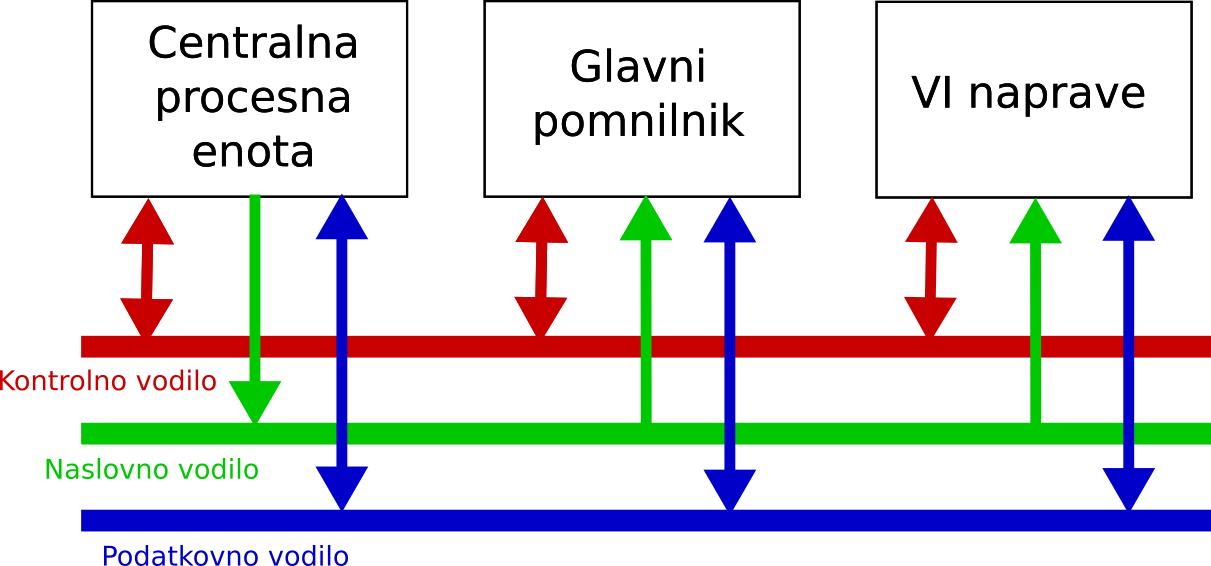
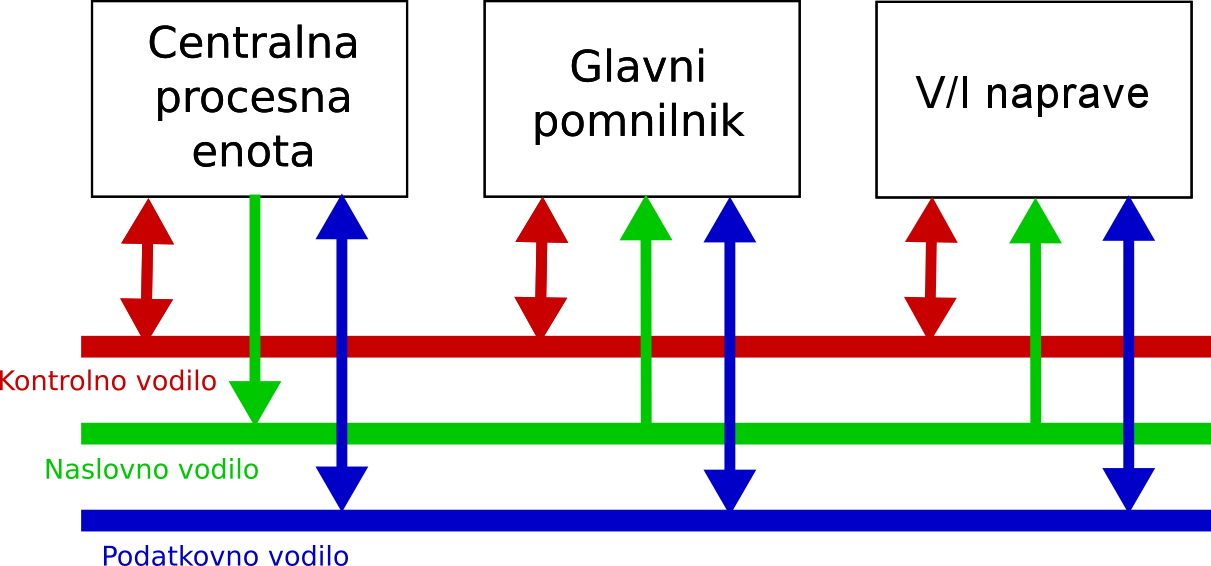
Updated unit 1304

Changed region(s): [[0.7333, 0.1201, 0.9472, 0.2102]]

diff --git a/book/1304/index2.html b/book/1304/index2.html
@@ -176,7 +176,7 @@
 						<h4 class="modal-title">Komentar</h4>
 					</div>
 					<div class="modal-body">
-						<p align="justify">Včasih programer želi prekiniti zaporedno izvajanje ukazov (na primer pri uporabi zank ali pogojnih stavkov), a kako to zapovedati CPE v poglavju o ukazih.</p>
+						<p align="justify">Včasih programer želi prekiniti zaporedno izvajanje ukazov (na primer pri uporabi zank ali pogojnih stavkov). Kako to zapovedati CPE, izvemo v poglavju o ukazih.</p>
 					</div>
 					<div class="modal-footer">
 						<button type="button" class="btn btn-default" data-dismiss="modal">Zapri</button>
@@ -197,7 +197,7 @@
 						<h4 class="modal-title">Rešitev</h4>
 					</div>
 					<div class="modal-body">
-						<p align="justify">Vzporedno izvajanje programa oziroma ukazov lahko dosežemo na dva osnovna načina. Prvi je, da hkrati uporabimo več CPE (večprocesorski ali večjedrni sistem), in drugi s cevovodnim izvajanjem ukazov. Slednje se dogaja danes v vsakem procesorju. Pri opisu izvajanja ukaza smo opredelili kot primer pet korakov. Če ponazorimo cevovodno izvajanje, slednje pomeni, da se najprej prične izvajati prvi korak prvega ukaza. Nato sledi izvajanje drugega koraka prvega ukaza, vendar se <b>hkrati </b>prične izvajati že tudi prvi korak naslednjega ukaza in tako naprej.</p>
+						<p align="justify">Vzporedno izvajanje programa oziroma ukazov lahko dosežemo na dva osnovna načina. Prvi je, da hkrati uporabimo več CPE (večprocesorski ali večjedrni sistem), in drugi s cevovodnim izvajanjem ukazov. Slednje se izvaja danes v vsakem procesorju. Pri opisu izvajanja ukaza smo kot primer opredelili pet korakov. Če ponazorimo cevovodno izvajanje, to pomeni, da se najprej prične izvajati prvi korak prvega ukaza. Nato sledi izvajanje drugega koraka prvega ukaza, vendar se <b>hkrati</b> prične izvajati že tudi prvi korak naslednjega ukaza in tako naprej.</p>
 					</div>
 					<div class="modal-footer">
 						<button type="button" class="btn btn-default" data-dismiss="modal">Zapri</button>
@@ -215,17 +215,17 @@
 <!-- Left column start -->
 <h1>Von Neumannova arhitektura</h1>
  
-<p align="justify">Poleg tega, da imamo pri von Neumannovi arhitekturi program v pomnilniku, zanjo velja še preprosto shema soodvisnosti gradnikov:</p>
+<p align="justify">Poleg tega, da imamo pri von Neumannovi arhitekturi program v pomnilniku, zanjo velja še preprosta shema soodvisnosti gradnikov:</p>
 
 <p align="center"><img src="img/von-neumann-640.png" width="75%" class="img-responsive" /></p>
 
-<p align="justify">Sestoji iz 3 sklopov: <b>centralne procesne enote</b> (CPE), <b>pomnilnika</b> ter <b>vhodno-izhodnih naprav</b>. Osrednjo vlogo ima CPE, ki izvaja program tako, da prevzema ukaze enega za drugim iz pomnilnika ter jih izvršuje. Ukaz praviloma opravi neko operacijo nad podatki, ki jim rečemo operandi. Operandi so lahko prav tako shranjeni v pomnilniku ali pa so prebrani iz vhodno-izhodnih naprav. Vhodno-izhodne naprave omogočajo komunikacijo CPE z okolico. Tipične vhodno-izhodne naprave so tipkovnica, zaslon, omrežna kartica, grafična kartica idr.</p>
+<p align="justify">Sestavljena je iz treh sklopov: <b>centralne procesne enote</b> (CPE), <b>pomnilnika</b> ter <b>vhodno-izhodnih naprav</b>. Osrednjo vlogo ima CPE, ki izvaja program tako, da prevzema ukaze enega za drugim iz pomnilnika ter jih izvršuje. Ukaz praviloma opravi neko operacijo na podatkih, ki jih imenujemo operandi. Operandi so lahko prav tako shranjeni v pomnilniku ali pa so prebrani iz vhodno-izhodnih naprav. Vhodno-izhodne naprave omogočajo komunikacijo CPE z okolico. Tipične vhodno-izhodne naprave so tipkovnica, zaslon, omrežna kartica, grafična kartica idr.</p>
 
 <p align="justify">CPE vsebuje:
 <ul align="justify">
-	<li><b>Registre</b>, v katerih lahko hrani operande s katerimi računa.</li>
-	<li><b>Aritmetično-logično enoto</b>, ki zna izvajati zahtevane aritmetične in logične operacije. </li>
-	<li><b>Kontrolno enoto</b>, ki nadzira delovanje CPE.</li>
+	<li><b>registre</b>, v katerih lahko hrani operande, s katerimi računa;</li>
+	<li><b>aritmetično-logično enoto</b>, ki lahko izvaja zahtevane aritmetične in logične operacije;</li>
+	<li><b>kontrolno enoto</b>, ki nadzira delovanje CPE.</li>
 </ul>
 </p>
 <!-- Left column end -->
@@ -237,24 +237,24 @@
 <p align="justify">Kontrolna enota najprej prebere ukaz iz glavnega pomnilnika. Ukaz se v glavnem pomnilniku nahaja na naslovu, ki ga hrani <b>programski števec</b> (<i>ang. program counter, PC</i>). Programski števec je eden od registrov v centralni procesni enoti, ki ima zelo pomembno vlogo, da hrani naslov naslednjega ukaza, ki se naj izvede. Vsakič ko se prevzame ukaz iz pomnilnika, se vrednost programskega števca samodejno poveča za 1, kar običajno zapišemo kot: <b><i>PC = PC + 1</i></b>.</p>
 
 <div class="alert alert-danger" role="alert">
-<p align="justify">To pravilo je značilno za von Neumannovo arhitekturo in zagotavlja, da se ukazi jemljejo iz pomnilnika zaporedoma. Poleg tega pravilo zagotavlja zaporedno izvajanje ukazov, kot jih je programer zapisal v programu.</p>
+<p align="justify">To pravilo je značilno za von Neumannovo arhitekturo in zagotavlja, da se ukazi pridobivajo iz pomnilnika zaporedoma. Poleg tega pravilo zagotavlja zaporedno izvajanje ukazov, kot jih je programer zapisal v programu.</p>
 <p>
 <button type="button" class="btn btn-danger" data-toggle="modal" data-target="#comment1"><span class="fa fa-check"></span> Komentar</button>
 </p>
 </div>
 
-<p align="justify">Izvajanje ukaza se v splošnem dogaja v več zaporednih korakih:
+<p align="justify">Ukaz se na splošno izvaja v več zaporednih korakih:
 <ol align="justify">
-	<li>Ko je ukaz dostavljen iz pomnilnika do kontrolne enote, ga le-ta začne dekodirati.</li>
+	<li>Ko je ukaz dostavljen iz pomnilnika do kontrolne enote, ga ta začne dekodirati.</li>
 	<li>Dekodiranje ukaza je postopek, s katerim se iz ukaza ugotavlja, kakšna operacija naj se izvede v aritmetično-logični enoti in kje so operandi, potrebni za izvajanje ukaza.</li>
-	<li>Operandi so najpogosteje v registrih in, če jih tam ni, jih dobimo iz pomnilnika ali vhodno-izhodne enote.</li>
-	<li>Pripravljeni operandi se prenesejo na vhod aritmetično-logične enote, ki nad njimi izvede zahtevano operacijo.</li>
-	<li>V zadnjem koraku se rezultat operacije shrani bodisi v notranje registre, pomnilnik ali na vhodno-izhodno enoto.</li>
+	<li>Operandi so najpogosteje v registrih. Če jih tam ni, jih dobimo iz pomnilnika ali vhodno-izhodne enote.</li>
+	<li>Pripravljeni operandi se prenesejo na vhod aritmetično-logične enote, ki na njih izvede zahtevano operacijo.</li>
+	<li>V zadnjem koraku se rezultat operacije shrani bodisi v notranje registre, pomnilnik ali vhodno-izhodno enoto.</li>
 </ol>
 </p>
 
 <div class="alert alert-info" role="alert">
-<p align="justify">Dandanes pohitrimo izvajanje naših programov na računalnikih s tem, da jih izvajamo vzporedno. Sedaj, ko poznaš kako izgleda von Neumannova arhitektura in ko veš, kako izgleda CPE, ali si znaš zamisliti, kako doseči povzporejanje izvajanja programov?</p>
+<p align="justify">Izvajanje računalniških programov v današnjem času pohitrimo tako, da jih izvajamo vzporedno. Zdaj ko si seznanjen(-a) s von Neumannovo arhitekturo in zgradbo CPE, ali si znaš zamisliti, kako doseči povzporejanje izvajanja programov?</p>
 <p>
 <button type="button" class="btn btn-info" data-toggle="modal" data-target="#solution1"><span class="fa fa-check"></span> Rešitev</button>
 </p>

diff --git a/book/1304/index1.html b/book/1304/index1.html
@@ -176,7 +176,7 @@
 						<h4 class="modal-title">Rešitev</h4>
 					</div>
 					<div class="modal-body">
-						<p align="justify">Na ta način postane program samo posebna oblika podatkov - z drugimi besedami, program so podatki, kot katerikoli drugi podatki in jih lahko, kot katerekoli druge podatke (recimo, besedilo, ki ga oblikujemo v pisarniškem programu), naložimo v pomnilnik. Edina razlika je v tem, da te podatke lahko »izvajamo«.</p>
+						<p align="justify">Na ta način postane program samo posebna oblika podatkov - z drugimi besedami, program so podatki kot katerikoli drugi podatki, ki jih lahko enako kot katerekoli druge podatke (recimo besedilo, ki ga oblikujemo v pisarniškem programu) naložimo v pomnilnik. Edina razlika je ta, da te podatke lahko »izvajamo«.</p>
 					</div>
 					<div class="modal-footer">
 						<button type="button" class="btn btn-default" data-dismiss="modal">Zapri</button>
@@ -194,27 +194,27 @@
 <!-- Left column start -->
 <h1>ENIAC</h1>
  
-<p align="justify">Prvi omembe vreden elektronski računalnik so začeli izdelovati leta 1943 na University of Pennsylvania. Nadeli so mu ime Electronic Numerical  Integrator and Calculator – ENIAC. Denar za njegovo izdelavo je zagotovila ameriška vojska, saj so ga potrebovali za računanje in izdelavo balističnih tabel za topništvo. Programiranje ENIACA-a je potekalo ročno – vklapljali so ali izklapljali posamezna stikala in prevezovali vodnike, kot je razvidno na spodnji sliki. Si lahko zamislite, kako zamudno je bilo to opravilo?</p>
+<p align="justify">Prvi omembe vreden elektronski računalnik so začeli izdelovati leta 1943 na Univerzi v Pensilvaniji. Nadeli so mu ime Electronic Numerical  Integrator and Calculator – ENIAC. Denar za njegovo izdelavo je zagotovila ameriška vojska, saj so ga potrebovali za računanje in izdelavo balističnih tabel za topništvo. Programiranje ENIAC-a je potekalo ročno – vklapljali so ali izklapljali posamezna stikala in prevezovali vodnike, kot je razvidno na spodnji sliki. Si lahko zamislite, kako zamudno je bilo to opravilo?</p>
 
 <p align="center"><img src="img/ENIAC-programming.jpg" class="img-responsive" />
 <i>Računalnik ENIAC in njegove programerke.</i></p>
 
-<p align="justify">To je bil računalnik, ki ni imel shranjenega programa oz. navodil za računanje. Ko se je pojavila potreba po drugačnem programu ali izračunu, so morali ponovno izvesti nerodno in počasno pretikanje stikal in žic. In medtem ko so ga tako programirali, je računalnik stal in ni reševal nobenih drugih problemov.</p>
+<p align="justify">To je bil računalnik, ki ni imel shranjenega programa oz. navodil za računanje. Ko se je pojavila potreba po drugačnem programu ali izračunu, so morali ponovno izvesti nerodno in počasno pretikanje stikal ter žic. Poleg tega je računalnik, medtem ko so ga tako programirali, miroval in ni reševal nobenih drugih problemov.</p>
 <!-- Left column end -->
 					</div>
 					<div class="col-md-6">
 						<br />
 <!-- Right column start -->
-<p align="justify">Vodilna razvijalca pri ENIAC-u, John Mauchly in J. Presper Eckert, sta prišla na idejo, da bi računalnik imel program, tj. ukaze, ki so navodilo za njegovo delovanje, shranjene v elektronskem spominu. Ker sta bila po pogodbi z ameriško vojsko zavezana k molčečnosti, te ideje nista smela javno objaviti, temveč sta jo zaupala članu razvojne ekipe, Johnu von Neumannu, ki je v skupini delal kot svetovalec. John von Neumann je idejo nato objavil leta 1945 v predlogu za nov računalnik EDVAC – Electronic Discrete Variable Computer.  Še danes ni jasno, ali si von Neuman zasluži, da se zasluge za to idejo pripisujejo le njemu, a kljub temu so bili po njem poimenovani računalniki s takšno zasnovo.</p>
+<p align="justify">Vodilna razvijalca pri ENIAC-u, John Mauchly in J. Presper Eckert, sta si zamislila, da bi računalnik imel program, tj. ukaze, ki so navodilo za njegovo delovanje, shranjene v elektronskem spominu. Ker sta bila po pogodbi z ameriško vojsko zavezana k molčečnosti, te zamisli nista smela javno objaviti, temveč sta jo zaupala članu razvojne ekipe, Johnu von Neumannu, ki je v skupini delal kot svetovalec. John von Neumann je zamisel nato objavil leta 1945 v predlogu za nov računalnik EDVAC – Electronic Discrete Variable Computer.  Še danes ni jasno, ali je za to zamisel upravičeno zaslužen le von Neumann, po katerem so bili poimenovani računalniki s tovrstno zasnovo.</p>
 
 <div class="alert alert-success" role="alert">
-<p align="justify">Računalnikom s shranjenim programom v pomnilniku pravimo von Neumannovi računalniki ali računalniki s von Neumannovo arhitekturo.</p>
+<p align="justify">Računalniki s shranjenim programom v pomnilniku se imenujejo von Neumannovi računalniki ali računalniki s von Neumannovo arhitekturo.</p>
 </div>
 
-<p align="justify">Danes so to praktično vsi računalniki, ki jih poznamo in nam je to, da ima računalnik program shranjen v pomnilniku, nekaj povsem samoumevnega. A kot vidimo, sredi 40. let prejšnjega stoletja temu ni bilo tako.</p>
+<p align="justify">Danes so to praktično vsi računalniki, ki jih poznamo, in nam je to, da ima računalnik program shranjen v pomnilniku, nekaj povsem samoumevnega. A kot vidimo, sredi 40. let prejšnjega stoletja to ni bilo tako.</p>
 
 <div class="alert alert-info" role="alert">
-<p align="justify">Ena od značilnosti von Neumannove arhitekture je, da je program shranjen v pomnilniku. Zakaj meniš, da je to dobro?</p>
+<p align="justify">Ena od značilnosti von Neumannove arhitekture je, da je program shranjen v pomnilniku. Zakaj bi to lahko bilo dobro?</p>
 <p>
 <button type="button" class="btn btn-info" data-toggle="modal" data-target="#solution1"><span class="fa fa-check"></span> Rešitev</button>
 </p>

diff --git a/book/1304/index3.html b/book/1304/index3.html
@@ -176,8 +176,8 @@
 						<h4 class="modal-title">Rešitev</h4>
 					</div>
 					<div class="modal-body">
-						<p align="justify">Vodili PCI in PCI Express sta namenjeni priklopu različnih vhodno/izhodnih enot kot so grafična kartica in podobno. Tudi počasnejše vodilo USB je namenjeno priklopu vhodno/izhodnih naprav. Poleg tega ima naša matična plošča še starejša vodila RS232, PS/2 in Centronics (IEEE 1284), ki jih danes zelo redko ali sploh ne srečamo več na sodobnih računalnikih. Poleg tega ima plošča za priklop diskov vodili ATA in SATA ter podatkovno vodilo za prenos podatkov med CPE in pomnilnikom.</p>
-						<p align="justify">Naj ti bodo imena vodil bolj za zanimivost in za to, da morda po spletu poiščeš njihov podrobnejši opis.</p>
+						<p align="justify">Vodili PCI in PCI Express sta namenjeni priklopu različnih vhodno-izhodnih enot, kot so grafična kartica in podobno. Tudi počasnejše vodilo USB je namenjeno priklopu vhodno-izhodnih naprav. Poleg tega ima naša matična plošča starejša vodila RS232, PS/2 in Centronics (IEEE 1284), ki jih danes zelo redko ali sploh ne uporabljamo več v sodobnih računalnikih. Poleg tega ima plošča za priklop diskov vodili ATA in SATA ter podatkovno vodilo za prenos podatkov med CPE in pomnilnikom.</p>
+						<p align="justify">Imena vodil obravnavaj bolj kot zanimivost, njihov podrobnejši opis pa lahko poiščeš na spletu.</p>
 					</div>
 					<div class="modal-footer">
 						<button type="button" class="btn btn-default" data-dismiss="modal">Zapri</button>
@@ -208,14 +208,14 @@
  
 <p align="justify">Matična plošča osebnega računalnika je kompleksno elektronsko vezje, katerega glavna naloga je, da CPE, pomnilnik in vhodno-izhodne naprave, tj. vse tri osnovne gradnike von Neumannove arhitekture, poveže v delujočo celoto.</p>
 
-<p align="justify">Matična plošča vsebuje podnožje, v katerega vstavimo centralno procesno enoto (npr. Intelov ali AMD-jev procesor). Zraven je običajno več rež, kamor vstavimo pomnilniške module DIMM (<i>ang. dual in-line memory module</i>), ki služijo kot glavni pomnilnik. Pomnilnik mora biti fizično čim bližje centralni procesni enoti, zato da so prenosne poti, po katerih se prenašajo ukazi in operandi, čim krajše. Posledično bo čas prenosa med centralno procesno enoto in pomnilnikom kratek. Priključki PCI (<i>ang. Peripheral Component Interconnect</i>) in PCIe (<i>ang. PCI Express</i>) so namenjeni priključevanju hitrih vhodno-izhodnih naprav, kot so npr. grafične kartice. Med temi hitrimi vhodno-izhodnimi napravami ter med centralno procesno enoto in glavnim pomnilnikom se prenašajo velike količine podatkov. Na matični plošči je še množica priključkov za počasnejše zunanje naprave, kot so npr. tipkovnice, miške, USB ključki, tiskalniki idr.</p>
+<p align="justify">Matična plošča vsebuje podnožje, v katerega vstavimo centralno procesno enoto (npr. Intelov ali AMD-jev procesor). Zraven je običajno več rež, kamor vstavimo pomnilniške module DIMM (<i>ang. dual in-line memory module</i>), ki se uporabljajo kot glavni pomnilnik. Pomnilnik mora biti fizično čim bližje centralni procesni enoti, da so prenosne poti, po katerih se prenašajo ukazi in operandi, čim krajše. Posledično bo čas prenosa med centralno procesno enoto in pomnilnikom kratek. Priključki PCI (<i>ang. Peripheral Component Interconnect</i>) in PCIe (<i>ang. PCI Express</i>) so namenjeni priključevanju hitrih vhodno-izhodnih naprav, kot so npr. grafične kartice. Med temi hitrimi vhodno-izhodnimi napravami ter med centralno procesno enoto in glavnim pomnilnikom se prenašajo velike količine podatkov. Na matični plošči je še množica priključkov za počasnejše zunanje naprave, kot so npr. tipkovnice, miške, USB-ključki, tiskalniki idr.</p>
 
 <div class="alert alert-info" role="alert">
 <p align="justify">Na naslednji strani si oglej primer matične plošče in razišči vse označene priključke!</p>
 </div>
 
 <div class="alert alert-info" role="alert">
-<p align="justify">Katera vodila vsebuje matična plošča, ki jo predstavljamo, in čemu služijo?</p>
+<p align="justify">Katera vodila vsebuje matična plošča, ki jo predstavljamo, in za kaj se uporabljajo?</p>
 <p>
 <button type="button" class="btn btn-info" data-toggle="modal" data-target="#solution1"><span class="fa fa-check"></span> Rešitev</button>
 </p>

diff --git a/book/1304/index.html b/book/1304/index.html
@@ -176,7 +176,7 @@
 						<h4 class="modal-title">Namig</h4>
 					</div>
 					<div class="modal-body">
-						<p align="justify">Ne, na sliki je podnožje centralne procesne enote osebnega računalnika. Tu se, kot ste gotovo že zaslutili, ne bomo ukvarjali z arhitekturo stavb, temveč arhitekturo računalniških sistemov.</p>
+						<p align="justify">Na sliki je podnožje centralne procesne enote osebnega računalnika. Tu se, kot ste gotovo že zaslutili, ne bomo ukvarjali z arhitekturo stavb, temveč arhitekturo računalniških sistemov.</p>
 					</div>
 					<div class="modal-footer">
 						<button type="button" class="btn btn-default" data-dismiss="modal">Zapri</button>
@@ -194,9 +194,9 @@
 <!-- Left column start -->
 <h1>Arhitektura računalnika</h1>
  
-<p align="justify">S pojmom računalniška arhitektura označujemo področje, ki se ukvarja z zgradbo računalnika, lastnostmi njegovih gradnikov, povezavami med le-temi in z zasnovo računalnikovih strojnih ukazov. Področje arhitekture računalnik obravnava ne glede na njegovo strojno izvedbo.</p>
+<p align="justify">S pojmom <i>računalniška arhitektura</i> označujemo področje, ki se ukvarja z zgradbo računalnika, lastnostmi njegovih gradnikov in povezavami med njimi ter z zasnovo računalnikovih strojnih ukazov. Področje arhitekture računalnik obravnava ne glede na svojo strojno izvedbo.</p>
 
-<p align="justify">V tem poglavju bomo najprej pokukali v čas ENIAC-a, enega prvih elektronskih računalnikov, ki ga je bilo potrebno programirati s pretikanjem žic in stikal. Ideje o izboljšavah, ki so se pojavile med njegovim razvojem in jih danes imenujemo von Neumannova arhitektura, so imele daljnosežen vpliv na razvoj računalnikov in v svoji osnovi ostajajo nespremenjene vse do današnjih dni. Ogledali si bomo še matično ploščo osebnega računalnika, ki služi kot povezovalni člen med njegovimi osnovnimi gradniki.</p>
+<p align="justify">V tem poglavju bomo najprej pokukali v čas ENIAC-a, enega od prvih elektronskih računalnikov, ki ga je bilo treba programirati s pretikanjem žic in stikal. Zamisli o izboljšavah, ki so se pojavile med njegovim razvojem in jih danes imenujemo von Neumannova arhitektura, so imele daljnosežen vpliv na razvoj računalnikov in v svoji osnovi ostajajo nespremenjene vse do današnjih dni. Ogledali si bomo še matično ploščo osebnega računalnika, ki se uporablja kot povezovalni člen med njegovimi osnovnimi gradniki.</p>
 
 <br />
 <div class="panel panel-primary">
@@ -218,7 +218,7 @@
 						<br />
 <!-- Right column start -->
 <p align="center"><img src="img/p4_cpu_bottom_macro_desktop_1920x1200_wallpaper-289274.jpg" class="img-responsive" />
-<i>Je na sliki morda majhno naselje obdano z obrambnim zidom?</i></p>
+<i>Je na sliki morda majhno naselje, obdano z obrambnim zidom?</i></p>
 
 <center><button class="btn btn-default" data-toggle="modal" data-target="#hint">Namig</button></center>
 <!-- Right column end -->

diff --git a/book/1304/index7.html b/book/1304/index7.html
@@ -240,7 +240,7 @@
 <p>
 	<span class="label label-primary"><b>1</b></span>
 </p>
-<p align="justify">Kaj je razlikovalo računalnik EDVAC od računalnika ENIAC? Izberi pravilni odgovor.</p>
+<p align="justify">V čem se je računalnik EDVAC razlikoval od računalnika ENIAC? Izberi pravilni odgovor.</p>
 <p>
 <div class="input-row">
 	<input type="radio" name="option57_13" id="i57_16" data-toggle="modal" data-target="#false" />
@@ -252,7 +252,7 @@
 </div>
 <div class="input-row">
 	<input type="radio" name="option57_13" id="i57_625" data-toggle="modal" data-target="#false" />
-	<label class="checkbox-label" id="taans57_625">Med EDVAC-om in ENIAC-om ni bistvene razlike. Oba sta nastala v času med in malo po drugi svetovni vojni.</label>
+	<label class="checkbox-label" id="taans57_625">Med EDVAC-om in ENIAC-om ni bistvene razlike. Oba sta nastala v času med drugo svetovno vojno in malo po njej.</label>
 </div>
 </p>
 </div>
@@ -304,11 +304,11 @@
 </div>
 <div class="input-row">
 	<input type="radio" name="option63_13" id="i63_638" data-toggle="modal" data-target="#false" />
-	<label class="checkbox-label" id="taans63_638">Da računalnik zna šteti koliko ukazov je izvedela centralna procesna enota.</label>
+	<label class="checkbox-label" id="taans63_638">Da lahko računalnik prešteje, koliko ukazov je izvedela centralna procesna enota.</label>
 </div>
 <div class="input-row">
 	<input type="radio" name="option63_13" id="i63_635" data-toggle="modal" data-target="#true" />
-	<label class="checkbox-label" id="taans63_635">Da se ukazi iz pomnilnika jemljejo v takšnem zaporedju, kot ga je določil programmer.</label>
+	<label class="checkbox-label" id="taans63_635">Da se ukazi iz pomnilnika pridobivajo v takšnem zaporedju, kot ga je določil programmer.</label>
 </div>
 </p>
 </div>

diff --git a/book/1304/index6.html b/book/1304/index6.html
@@ -211,7 +211,7 @@
   </div>
   <div class="back">
     <a href="#" class="quickFlipCta"><div class="term">Vodilo</div></a>
-    <p>Skupek povezav med dvema gradnikoma, ki omogoča, da med seboj izmenjujeta podatke.</p>
+    <p>Skupek povezav med gradnikoma, ki omogoča, da med seboj izmenjujeta podatke.</p>
   </div>
 </div>
 <div class="card5">
@@ -220,7 +220,7 @@
   </div>
   <div class="back">
     <a href="#" class="quickFlipCta"><div class="term">Vhodno-izhodne naprave</div></a>
-    <p>Naprave kot so tipkovnica, zaslon, grafična kartica, mrežna kartica, zvočna kartica. Centralni procesni enoti omogočajo sporazumevanje z zunanjim svetom.</p>
+    <p>Naprave, kot so tipkovnica, zaslon, grafična kartica, mrežna kartica, zvočna kartica. Centralni procesni enoti omogočajo sporazumevanje z zunanjim svetom.</p>
   </div>
 </div>
 <div class="card6">
